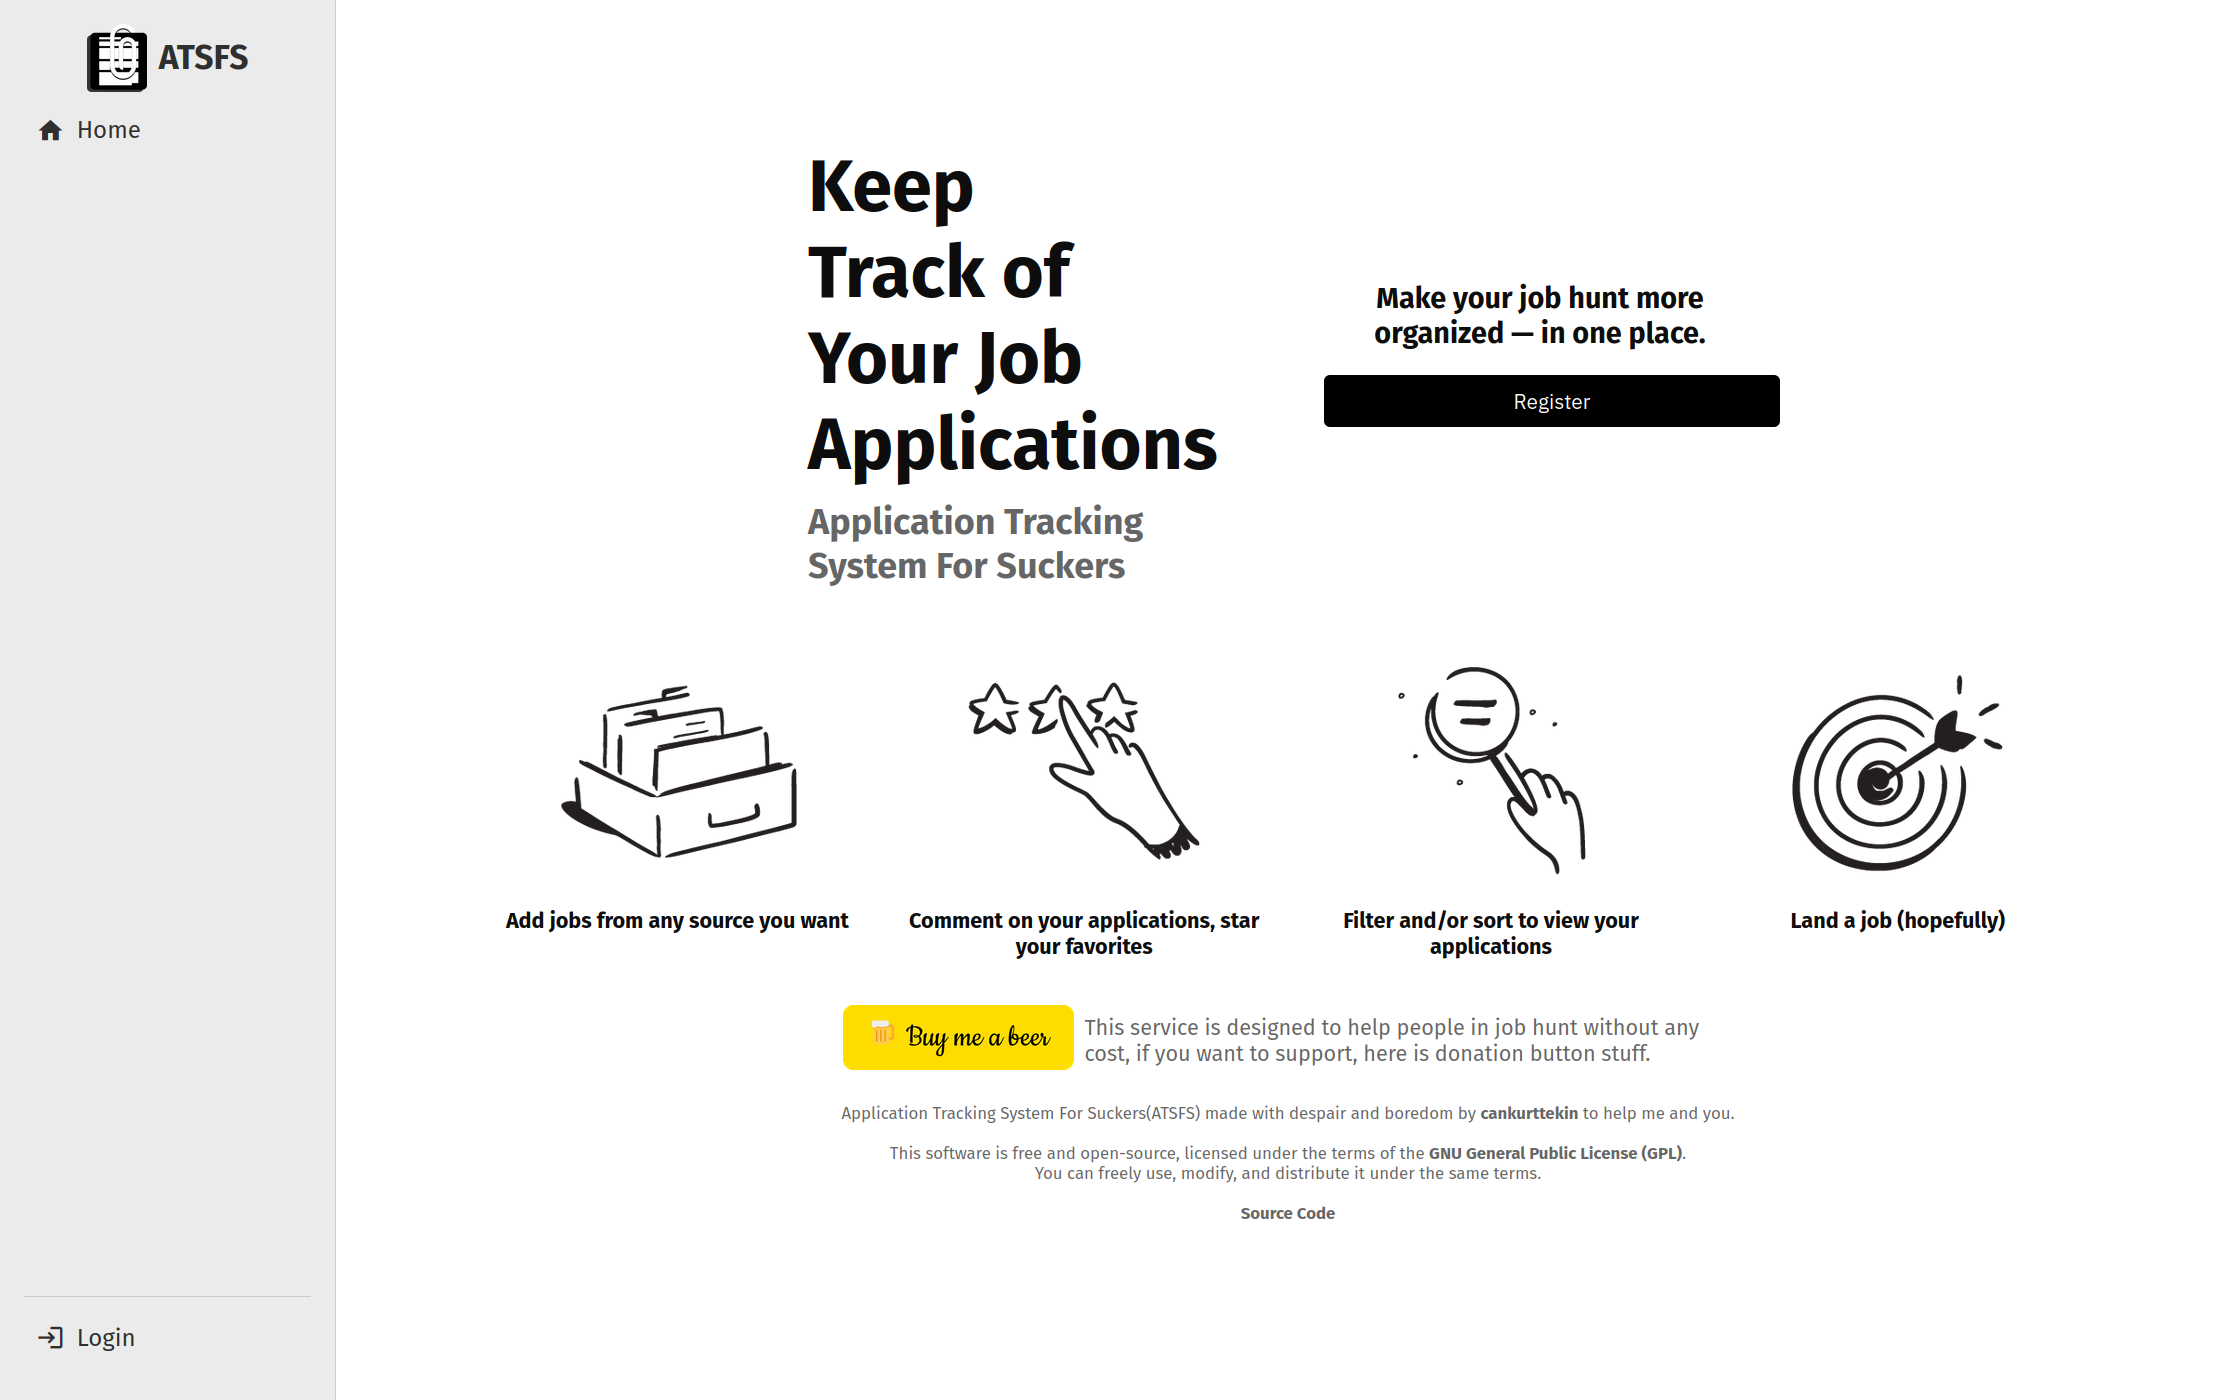
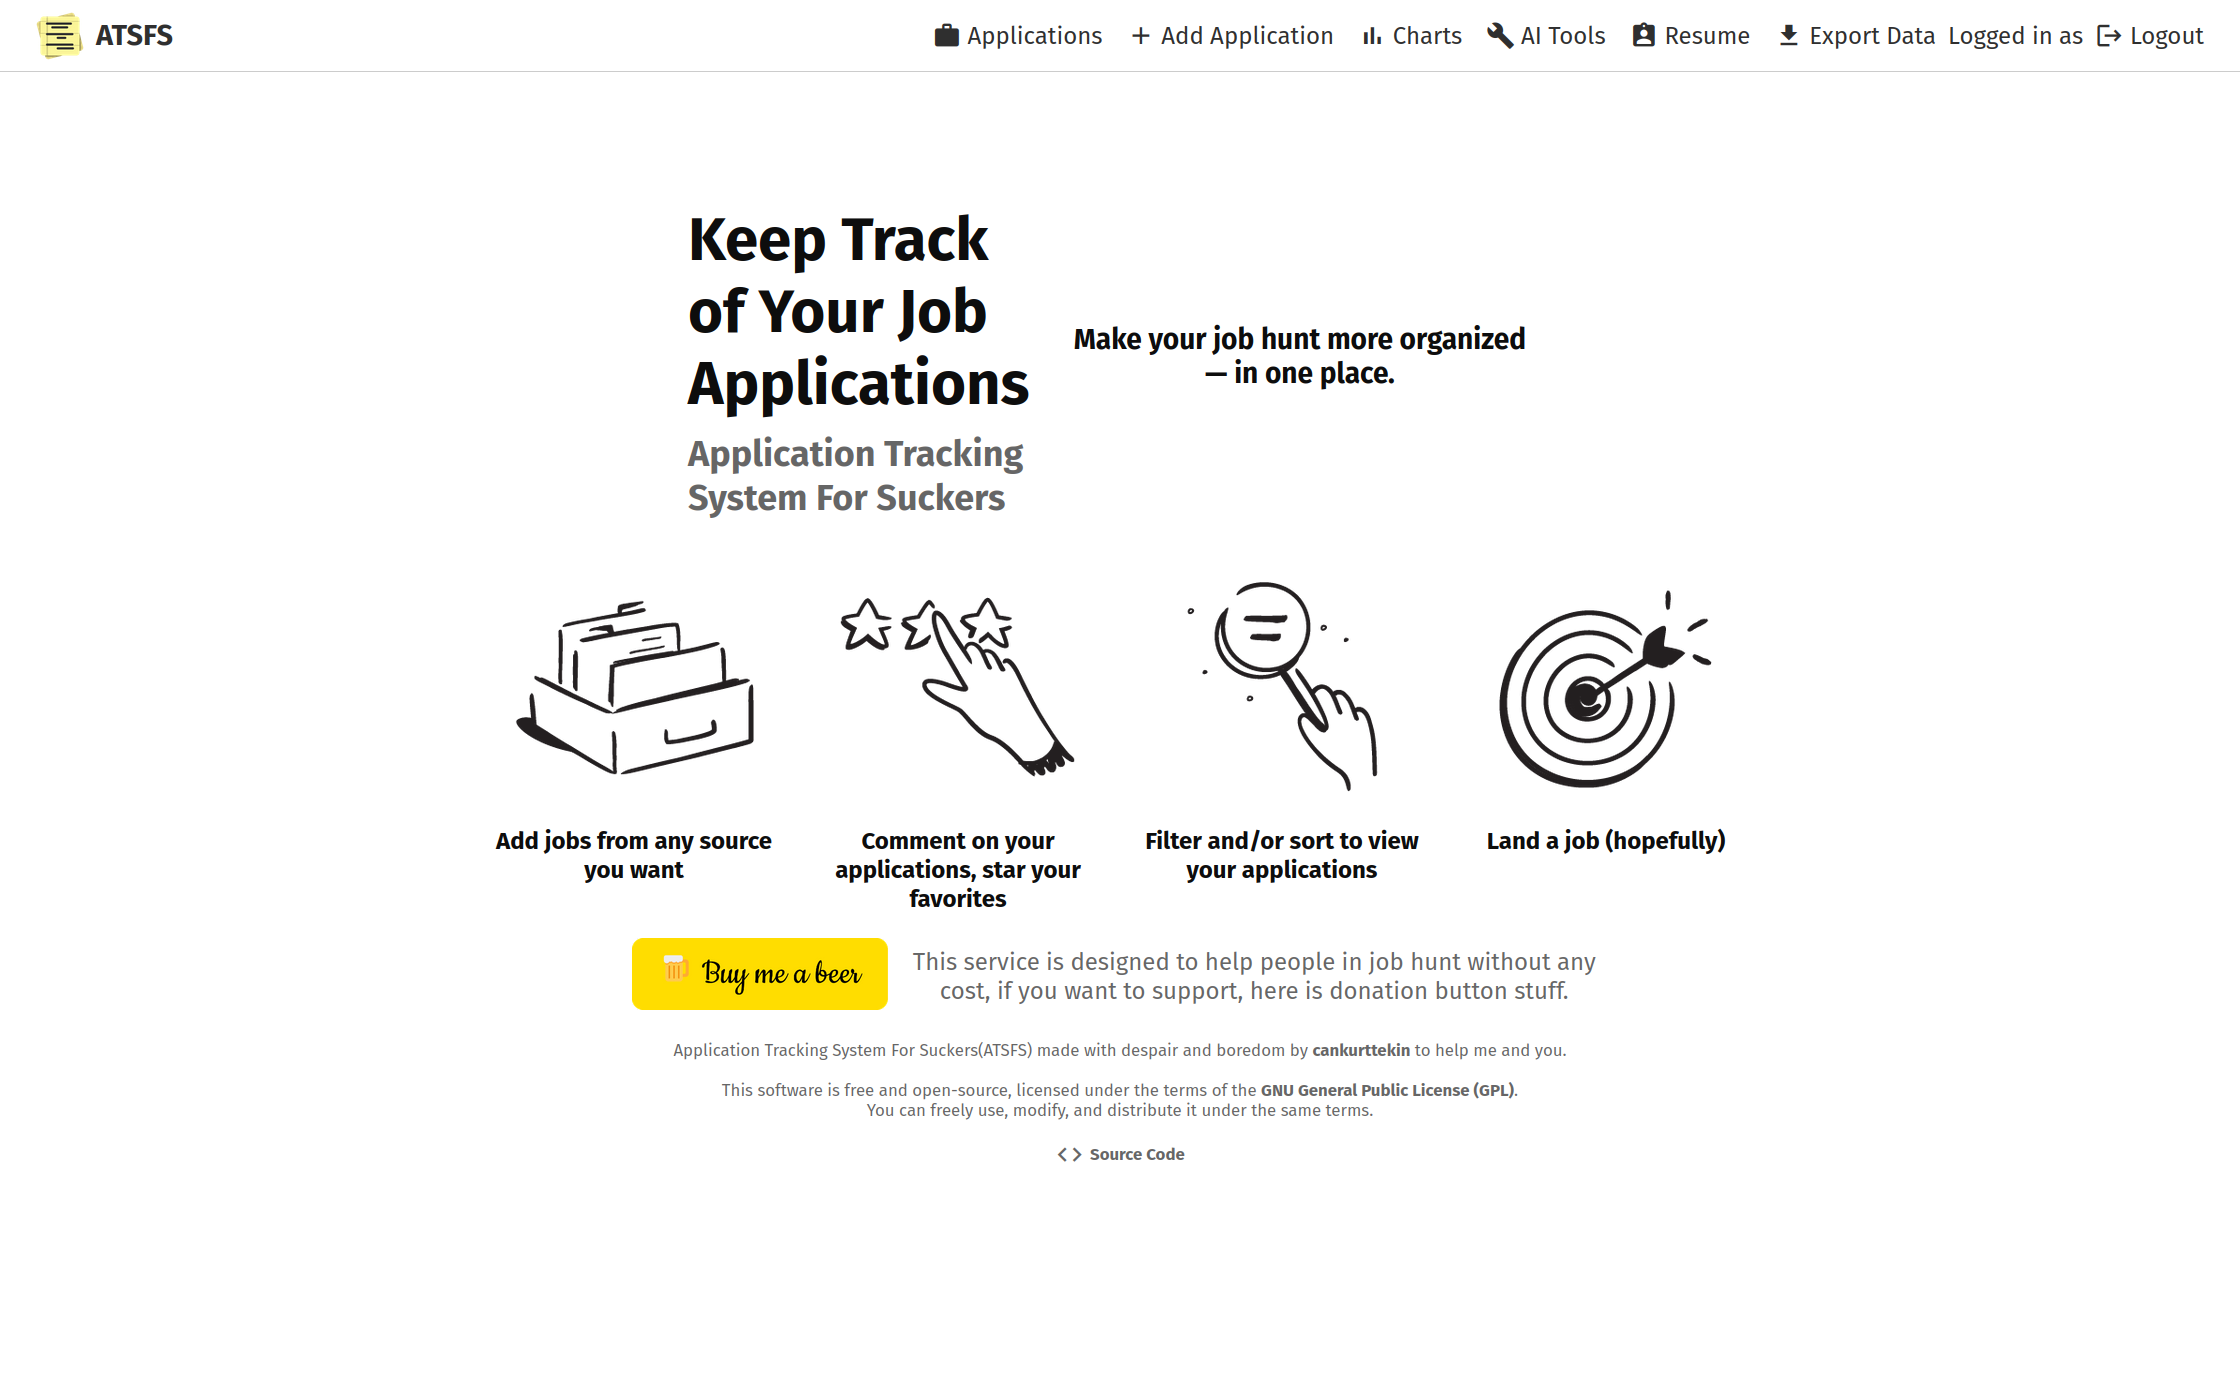
update readme

diff --git a/README.md b/README.md
@@ -12,15 +12,15 @@
 > Keep Track of Your Job Applications in one place
 
 ## Features
-- Add jobs and details
+- Log your job application and details
 - Write comments on jobs
-- Filter and sort your applications
-- Use graphs to observe your data
-- Edit/update currently added applications
-- ...
+- Ability to search, filter and sort your applications
+- Graphs that show your application stats
+- Update applications
+- Generate interview questions with AI using your resume and job details
 
-[job-application-tracker-silk.vercel.app](https://job-application-tracker-silk.vercel.app/)
-> Note: Because its deployed on free tier on vercel for frontend and render for backend, instance spins down with inactivity, which can delay requests by 50 seconds or more. I dont recommend using it from deployment since its not very reliable, if you want to use it follow Docker section to run locally.
+[atsfs.kurttekin.com](https://atsfs.kurttekin.com/)
+> It is currently in development state.
 
 <br />
 
@@ -29,9 +29,6 @@ alt="homepage">
 
 <img src="/assets/screenshot-atsfs.png"
 alt="applications">
-
-<img src="/assets/screenshot-atsfs-charts.png"
-alt="graphs">
 
 ## Endpoints
 <details>
@@ -68,6 +65,19 @@ Delete single job application
 `DELETE`
 /api/job-applications/all (JWT Auth)
 Delete all job applications
+
+`GET`
+/api/resumes (JWT Auth)
+
+`POST`
+/api/resumes (JWT Auth)
+
+`POST`
+/api/llm/generate-quiz (JWT Auth)
+
+`POST`
+/api/llm/generate-interview (JWT Auth)
+
 </details>
 
 ## Docker
@@ -83,9 +93,9 @@ docker-compose up --build
 - Spring Boot 3
 - Spring Security
 - Spring Web Reactive
-- JWT
 - Postgres DB
 - React
+- OpenAPI Swagger
 
 ## Structure
 <img src="/assets/structure.png"
